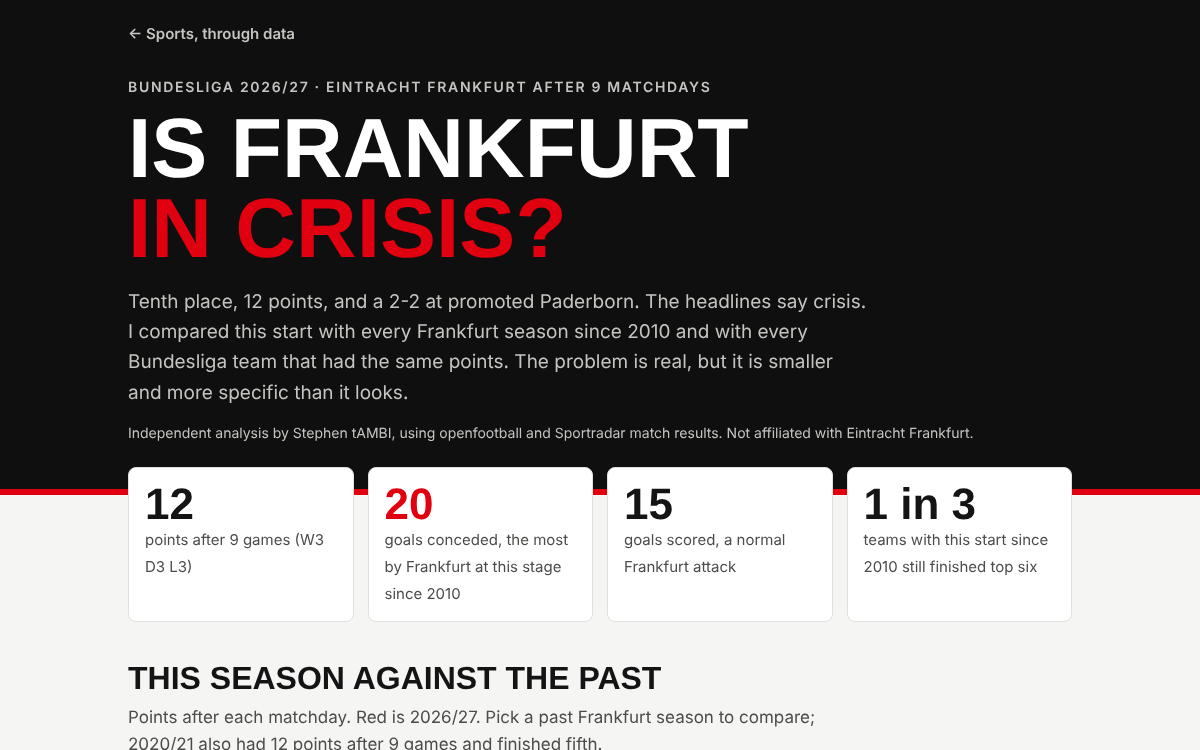
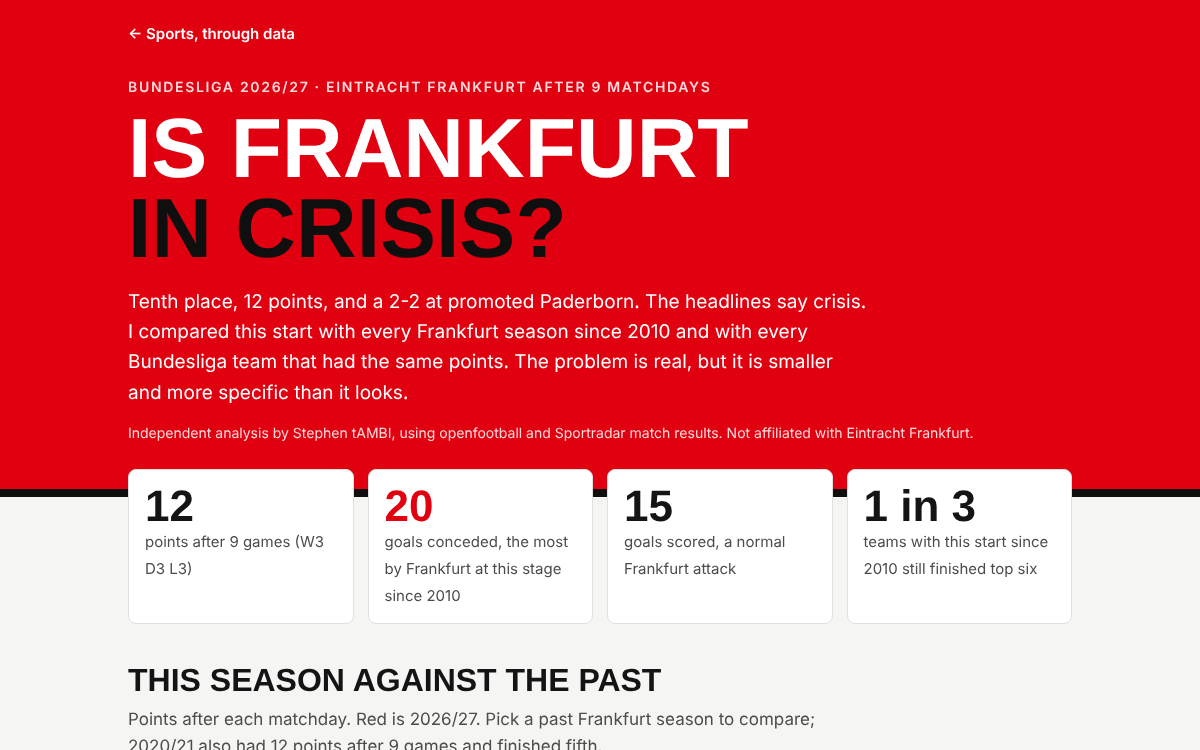
Frankfurt page in Eintracht red and black

diff --git a/football/is-frankfurt-in-crisis/index.html b/football/is-frankfurt-in-crisis/index.html
@@ -21,27 +21,27 @@
 :root {
   --bg: #f5f5f4; --panel: #ffffff; --ink: #141414; --ink-2: #4c4c4a; --muted: #838380; --line: #e1e0dd;
   --mast: #0f0f0f; --on-mast: #ffffff; --on-mast-2: #c4c4c0;
-  --red: #e1000f; --red-soft: #fde6e7; --past: #9a9a96; --good: #1f8a4c; --grid: #ecebe8;
+  --red: #e1000f; --eintracht: #e1000f; --red-soft: #fde6e7; --past: #9a9a96; --good: #1f8a4c; --grid: #ecebe8;
   --font-display: "Barlow Condensed", "Arial Narrow", sans-serif;
   --font-body: "Barlow", "Segoe UI", system-ui, sans-serif;
 }
 @media (prefers-color-scheme: dark) { :root:not([data-theme="light"]) {
   --bg: #0e0e0d; --panel: #171716; --ink: #f1f1ef; --ink-2: #bdbdb9; --muted: #8b8b87; --line: #2b2b29;
-  --mast: #050505; --red: #ff3b45; --red-soft: #3a1214; --past: #7a7a76; --good: #3fc47a; --grid: #232321; color-scheme: dark; } }
+  --mast: #050505; --eintracht: #c8000d; --red: #ff3b45; --red-soft: #3a1214; --past: #7a7a76; --good: #3fc47a; --grid: #232321; color-scheme: dark; } }
 :root[data-theme="dark"] {
   --bg: #0e0e0d; --panel: #171716; --ink: #f1f1ef; --ink-2: #bdbdb9; --muted: #8b8b87; --line: #2b2b29;
-  --mast: #050505; --red: #ff3b45; --red-soft: #3a1214; --past: #7a7a76; --good: #3fc47a; --grid: #232321; color-scheme: dark; }
+  --mast: #050505; --eintracht: #c8000d; --red: #ff3b45; --red-soft: #3a1214; --past: #7a7a76; --good: #3fc47a; --grid: #232321; color-scheme: dark; }
 * { box-sizing: border-box; }
 body { margin: 0; background: var(--bg); color: var(--ink); font: 17px/1.6 var(--font-body); }
 .inner { max-width: 980px; margin: 0 auto; padding-left: max(18px, env(safe-area-inset-left, 0px)); padding-right: max(18px, env(safe-area-inset-right, 0px)); }
-.mast { background: var(--mast); color: var(--on-mast); border-bottom: 6px solid var(--red); }
+.mast { background: var(--eintracht); color: var(--on-mast); border-bottom: 8px solid var(--mast); }
 .mast .inner { padding-block: 22px 44px; display: grid; gap: 14px; }
-.back { color: var(--on-mast-2); text-decoration: none; font-weight: 600; font-size: 15px; }
-.eyebrow { font: 600 14px var(--font-body); letter-spacing: .12em; text-transform: uppercase; color: var(--on-mast-2); margin-top: 18px; }
+.back { color: var(--on-mast); text-decoration: none; font-weight: 600; font-size: 15px; }
+.eyebrow { font: 600 14px var(--font-body); letter-spacing: .12em; text-transform: uppercase; color: var(--on-mast); opacity: .85; margin-top: 18px; }
 h1 { font: 800 clamp(44px, 8vw, 84px)/.95 var(--font-display); margin: 0; text-transform: uppercase; text-wrap: balance; }
-h1 span { color: var(--red); }
-.lede { margin: 4px 0 0; max-width: 62ch; color: var(--on-mast-2); font-size: 19px; }
-.byline { font-size: 14px; color: var(--on-mast-2); }
+h1 span { color: var(--mast); }
+.lede { margin: 4px 0 0; max-width: 62ch; color: var(--on-mast); font-size: 19px; }
+.byline { font-size: 14px; color: var(--on-mast); opacity: .85; }
 h2 { font: 700 32px/1.05 var(--font-display); text-transform: uppercase; margin: 0 0 8px; text-wrap: balance; }
 .intro { margin: 0 0 18px; color: var(--ink-2); max-width: 66ch; }
 section { padding-block: 40px 4px; }
@@ -71,7 +71,7 @@ select:focus-visible, input:focus-visible { outline: 2px solid var(--red); outli
 .calc { display: grid; grid-template-columns: minmax(0, 1fr) minmax(0, 260px); gap: 20px; align-items: center; }
 .big { font: 800 64px/1 var(--font-display); font-variant-numeric: tabular-nums; }
 .fixes { display: grid; grid-template-columns: repeat(3, minmax(0, 1fr)); gap: 14px; }
-.fix { background: var(--panel); border: 1px solid var(--line); border-top: 4px solid var(--red); border-radius: 8px; padding: 16px; display: grid; gap: 6px; align-content: start; }
+.fix { background: var(--panel); border: 1px solid var(--line); border-top: 4px solid var(--mast); border-radius: 8px; padding: 16px; display: grid; gap: 6px; align-content: start; }
 .fix h3 { margin: 0; font: 700 22px/1.1 var(--font-display); text-transform: uppercase; }
 .fix p { margin: 0; color: var(--ink-2); font-size: 15.5px; }
 .fix b.num { font: 800 34px/1 var(--font-display); color: var(--red); }

diff --git a/football/scripts/frankfurt_template.html b/football/scripts/frankfurt_template.html
@@ -21,27 +21,27 @@
 :root {
   --bg: #f5f5f4; --panel: #ffffff; --ink: #141414; --ink-2: #4c4c4a; --muted: #838380; --line: #e1e0dd;
   --mast: #0f0f0f; --on-mast: #ffffff; --on-mast-2: #c4c4c0;
-  --red: #e1000f; --red-soft: #fde6e7; --past: #9a9a96; --good: #1f8a4c; --grid: #ecebe8;
+  --red: #e1000f; --eintracht: #e1000f; --red-soft: #fde6e7; --past: #9a9a96; --good: #1f8a4c; --grid: #ecebe8;
   --font-display: "Barlow Condensed", "Arial Narrow", sans-serif;
   --font-body: "Barlow", "Segoe UI", system-ui, sans-serif;
 }
 @media (prefers-color-scheme: dark) { :root:not([data-theme="light"]) {
   --bg: #0e0e0d; --panel: #171716; --ink: #f1f1ef; --ink-2: #bdbdb9; --muted: #8b8b87; --line: #2b2b29;
-  --mast: #050505; --red: #ff3b45; --red-soft: #3a1214; --past: #7a7a76; --good: #3fc47a; --grid: #232321; color-scheme: dark; } }
+  --mast: #050505; --eintracht: #c8000d; --red: #ff3b45; --red-soft: #3a1214; --past: #7a7a76; --good: #3fc47a; --grid: #232321; color-scheme: dark; } }
 :root[data-theme="dark"] {
   --bg: #0e0e0d; --panel: #171716; --ink: #f1f1ef; --ink-2: #bdbdb9; --muted: #8b8b87; --line: #2b2b29;
-  --mast: #050505; --red: #ff3b45; --red-soft: #3a1214; --past: #7a7a76; --good: #3fc47a; --grid: #232321; color-scheme: dark; }
+  --mast: #050505; --eintracht: #c8000d; --red: #ff3b45; --red-soft: #3a1214; --past: #7a7a76; --good: #3fc47a; --grid: #232321; color-scheme: dark; }
 * { box-sizing: border-box; }
 body { margin: 0; background: var(--bg); color: var(--ink); font: 17px/1.6 var(--font-body); }
 .inner { max-width: 980px; margin: 0 auto; padding-left: max(18px, env(safe-area-inset-left, 0px)); padding-right: max(18px, env(safe-area-inset-right, 0px)); }
-.mast { background: var(--mast); color: var(--on-mast); border-bottom: 6px solid var(--red); }
+.mast { background: var(--eintracht); color: var(--on-mast); border-bottom: 8px solid var(--mast); }
 .mast .inner { padding-block: 22px 44px; display: grid; gap: 14px; }
-.back { color: var(--on-mast-2); text-decoration: none; font-weight: 600; font-size: 15px; }
-.eyebrow { font: 600 14px var(--font-body); letter-spacing: .12em; text-transform: uppercase; color: var(--on-mast-2); margin-top: 18px; }
+.back { color: var(--on-mast); text-decoration: none; font-weight: 600; font-size: 15px; }
+.eyebrow { font: 600 14px var(--font-body); letter-spacing: .12em; text-transform: uppercase; color: var(--on-mast); opacity: .85; margin-top: 18px; }
 h1 { font: 800 clamp(44px, 8vw, 84px)/.95 var(--font-display); margin: 0; text-transform: uppercase; text-wrap: balance; }
-h1 span { color: var(--red); }
-.lede { margin: 4px 0 0; max-width: 62ch; color: var(--on-mast-2); font-size: 19px; }
-.byline { font-size: 14px; color: var(--on-mast-2); }
+h1 span { color: var(--mast); }
+.lede { margin: 4px 0 0; max-width: 62ch; color: var(--on-mast); font-size: 19px; }
+.byline { font-size: 14px; color: var(--on-mast); opacity: .85; }
 h2 { font: 700 32px/1.05 var(--font-display); text-transform: uppercase; margin: 0 0 8px; text-wrap: balance; }
 .intro { margin: 0 0 18px; color: var(--ink-2); max-width: 66ch; }
 section { padding-block: 40px 4px; }
@@ -71,7 +71,7 @@ select:focus-visible, input:focus-visible { outline: 2px solid var(--red); outli
 .calc { display: grid; grid-template-columns: minmax(0, 1fr) minmax(0, 260px); gap: 20px; align-items: center; }
 .big { font: 800 64px/1 var(--font-display); font-variant-numeric: tabular-nums; }
 .fixes { display: grid; grid-template-columns: repeat(3, minmax(0, 1fr)); gap: 14px; }
-.fix { background: var(--panel); border: 1px solid var(--line); border-top: 4px solid var(--red); border-radius: 8px; padding: 16px; display: grid; gap: 6px; align-content: start; }
+.fix { background: var(--panel); border: 1px solid var(--line); border-top: 4px solid var(--mast); border-radius: 8px; padding: 16px; display: grid; gap: 6px; align-content: start; }
 .fix h3 { margin: 0; font: 700 22px/1.1 var(--font-display); text-transform: uppercase; }
 .fix p { margin: 0; color: var(--ink-2); font-size: 15.5px; }
 .fix b.num { font: 800 34px/1 var(--font-display); color: var(--red); }

diff --git a/football/scripts/make_thumbnails.js b/football/scripts/make_thumbnails.js
@@ -2,7 +2,7 @@
 // Add one entry per new project and run: node football/scripts/make_thumbnails.js
 const {chromium}=require('playwright');
 const T=[
- {f:'og-is-frankfurt-in-crisis.png',bg:'#0f0f0f',ink:'#fff',acc:'#ff3b45',sub:'#c4c4c0',kick:'BUNDESLIGA 2026/27 · EINTRACHT FRANKFURT AFTER 9 GAMES',t:'IS FRANKFURT<br><span>IN CRISIS?</span>',
+ {f:'og-is-frankfurt-in-crisis.png',bg:'#e1000f',ink:'#fff',acc:'#111111',sub:'#ffe3e5',kick:'BUNDESLIGA 2026/27 · EINTRACHT FRANKFURT AFTER 9 GAMES',t:'IS FRANKFURT<br><span>IN CRISIS?</span>',
   body:`<div class="stats"><div><em>12</em><small>points after 9</small></div><div><em class="a">20</em><small>goals conceded, most since 2010</small></div><div><em>1 in 3</em><small>with this start still made top 6</small></div></div>`},
  {f:'og-when-a-player-collapses.png',bg:'#141a22',ink:'#fff',acc:'#f0595d',sub:'#b7c0cc',kick:'SUDDEN DEATH IN FOOTBALL · FIFA REGISTRY 2014–18',t:'WHEN A PLAYER<br><span>COLLAPSES</span>',
   body:`<div class="stats"><div><em>617</em><small>players, 67 countries</small></div><div><em>35%</em><small>survived with bystander CPR</small></div><div><em style="color:#3ccf84">85%</em><small>survived with trained staff + AED</small></div></div>`},
